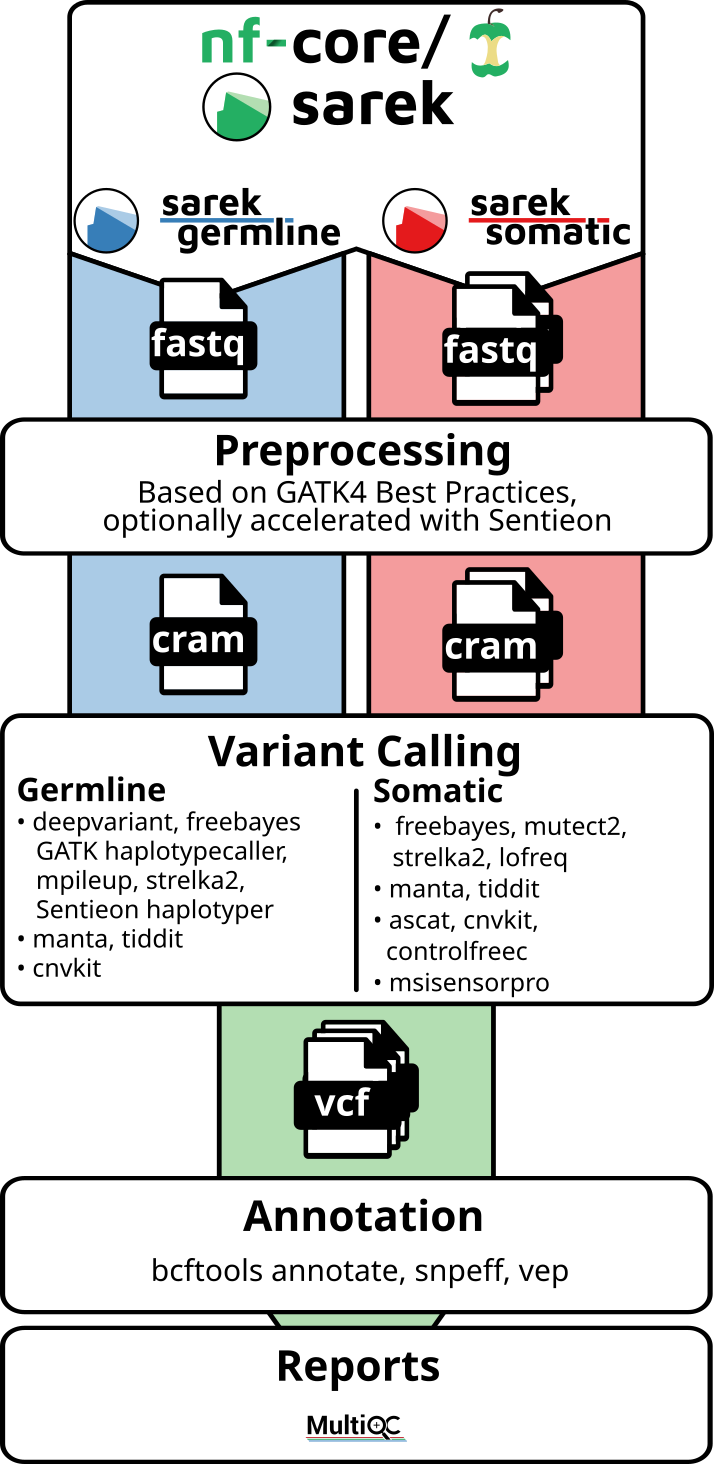
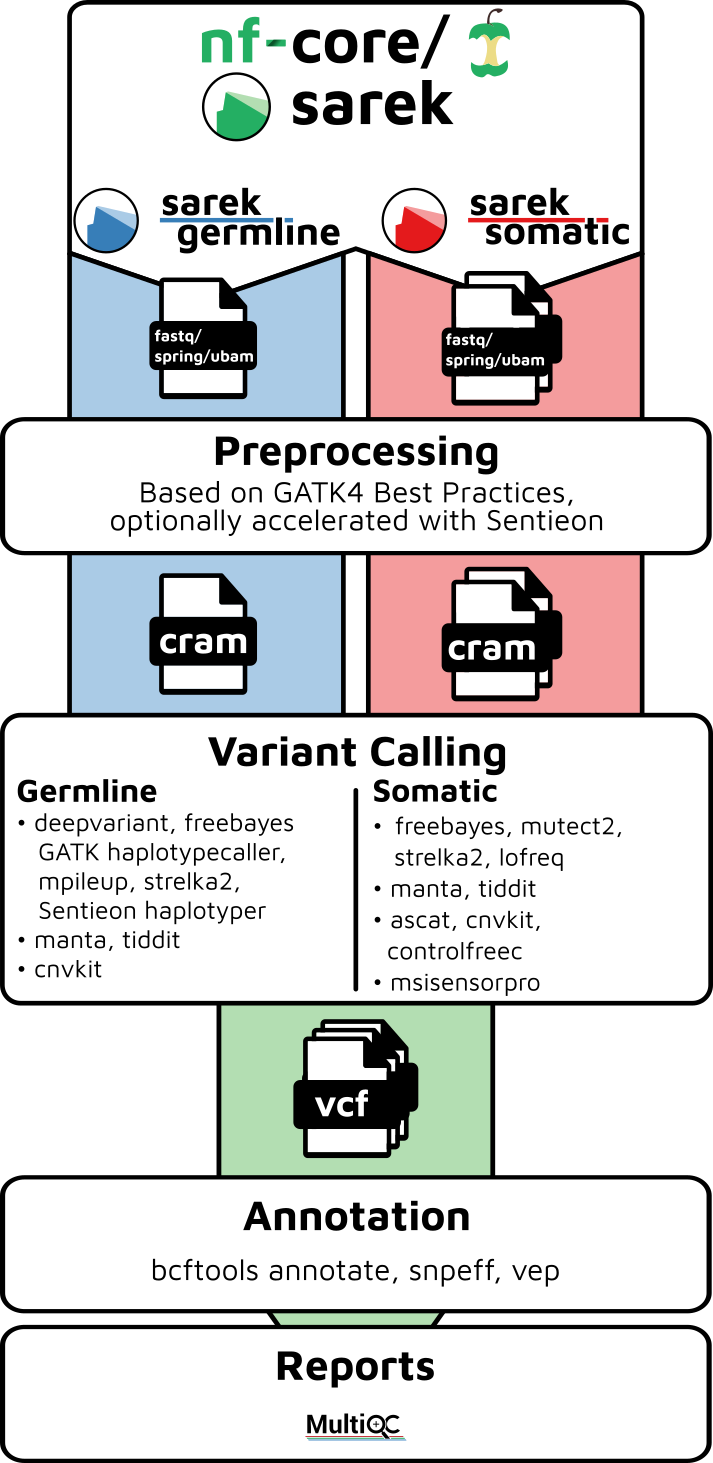
Add spring and ubam files to overview pictures (#1734)
Closes #1558 
<!--
# nf-core/sarek pull request

Many thanks for contributing to nf-core/sarek!

Please fill in the appropriate checklist below (delete whatever is not
relevant).
These are the most common things requested on pull requests (PRs).

Remember that PRs should be made against the dev branch, unless you're
preparing a pipeline release.

Learn more about contributing:
[CONTRIBUTING.md](https://github.com/nf-core/sarek/tree/master/.github/CONTRIBUTING.md)
-->

## PR checklist

- [ ] This comment contains a description of changes (with reason).
- [ ] If you've fixed a bug or added code that should be tested, add
tests!
- [ ] If you've added a new tool - have you followed the pipeline
conventions in the [contribution
docs](https://github.com/nf-core/sarek/tree/master/.github/CONTRIBUTING.md)
- [ ] If necessary, also make a PR on the nf-core/sarek _branch_ on the
[nf-core/test-datasets](https://github.com/nf-core/test-datasets)
repository.
- [ ] Make sure your code lints (`nf-core lint`).
- [ ] Ensure the test suite passes (`nextflow run . -profile test,docker
--outdir <OUTDIR>`).
- [ ] Check for unexpected warnings in debug mode (`nextflow run .
-profile debug,test,docker --outdir <OUTDIR>`).
- [ ] Usage Documentation in `docs/usage.md` is updated.
- [ ] Output Documentation in `docs/output.md` is updated.
- [ ] `CHANGELOG.md` is updated.
- [ ] `README.md` is updated (including new tool citations and
authors/contributors).

diff --git a/CHANGELOG.md b/CHANGELOG.md
@@ -111,7 +111,7 @@ Loametjåhkkå is another one of the main peaks of the Pårte massif.
 ### Added
 
 - [#1502](https://github.com/nf-core/sarek/pull/1502) - export CNVs into VCF format in `bam_variant_calling_cnvkit`
-- [#1534](https://github.com/nf-core/sarek/pull/1534), [#1573](https://github.com/nf-core/sarek/pull/1573) - Handling `.fastq.gz.spring` files as input
+- [#1534](https://github.com/nf-core/sarek/pull/1534), [#1573](https://github.com/nf-core/sarek/pull/1573), [#1734](https://github.com/nf-core/sarek/pull/1534) - Handling `.fastq.gz.spring` files as input
 - [#1593](https://github.com/nf-core/sarek/pull/1593) - Prepare release `3.4.2`
 
 ### Changed
